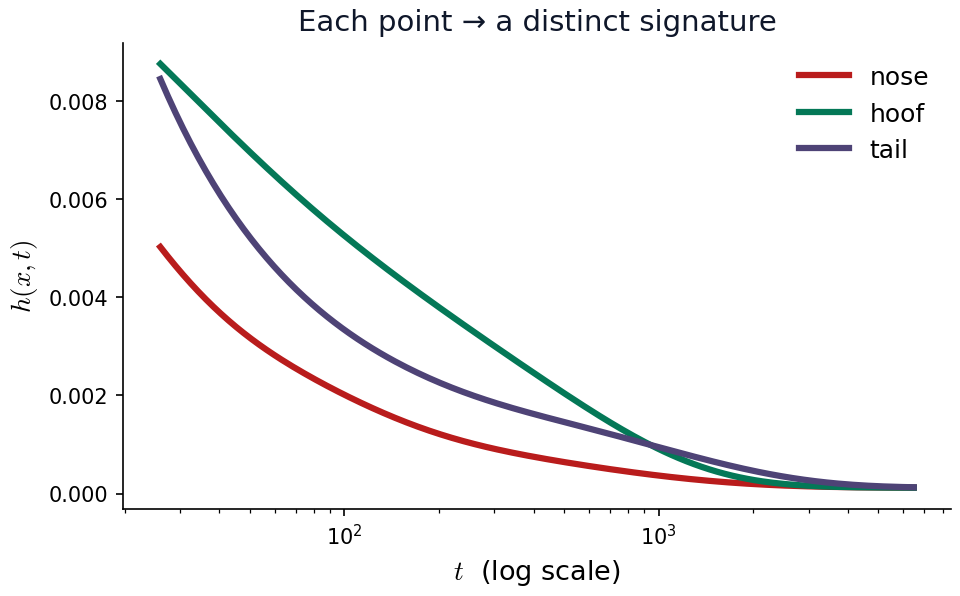
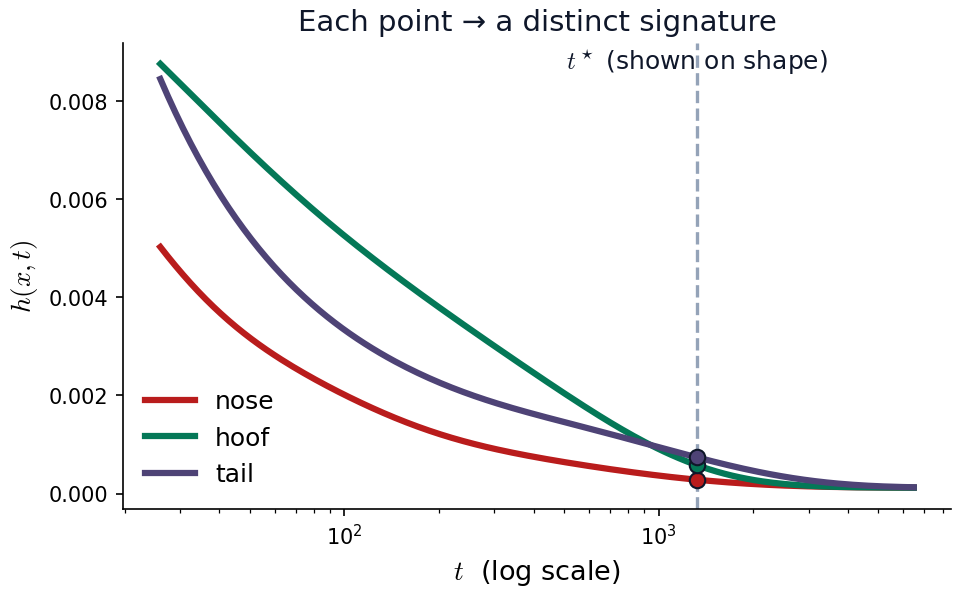
Slide 15: mark the field scale t* on the signature graph
Add a dashed vertical line at t* (the single scale painted on the shape) with
dots where each curve crosses it, and name t* in the caption — clarifies the
horse field is one slice of the descriptor, not the full signature.

diff --git a/gen/gen_24_shape_descriptors.py b/gen/gen_24_shape_descriptors.py
@@ -167,9 +167,21 @@ def build():
                  str(OUT_DIR / "desc_points.png"), pts=pts, pcols=pcols)
     print("[ok] desc_points.png")
 
+    # the scale at which the shape is painted (slide 15 field)
+    tmid = ts[len(ts) // 2]
+
     fig, ax = plt.subplots(figsize=(6.6, 4.2))
     for i, c, lbl in zip(pts, pcols, ["nose", "hoof", "tail"]):
         ax.plot(tfine, hfine[:, i], color=c, lw=3, label=lbl)
+    # vertical line marking the single scale shown on the shape, with the
+    # value each curve takes there (= the colour painted on that point)
+    ax.axvline(tmid, color=GRAY, ls="--", lw=1.6, zorder=1)
+    for i, c in zip(pts, pcols):
+        yv = float(np.exp(-tmid * lam) @ (Phi[i] ** 2))
+        ax.scatter([tmid], [yv], color=c, edgecolor=FG, zorder=6, s=55)
+    ax.annotate(r"$t^\star$ (shown on shape)", xy=(tmid, ax.get_ylim()[1]),
+                xytext=(0, -2), textcoords="offset points",
+                ha="center", va="top", fontsize=12, color=FG)
     ax.set_xscale("log")
     ax.set_xlabel("$t$  (log scale)", fontsize=13)
     ax.set_ylabel("$h(x,t)$", fontsize=13)
@@ -182,8 +194,7 @@ def build():
     plt.close()
     print("[ok] desc_curves3.png")
 
-    # field at a mid scale over every vertex
-    tmid = ts[len(ts) // 2]
+    # field at the same mid scale over every vertex
     field = np.exp(-tmid * lam) @ (Phi ** 2).T
     clim = (float(np.percentile(field, 2)), float(np.percentile(field, 98)))
     render_field(V, F, field, FIELD, clim, str(OUT_DIR / "desc_field.png"))

diff --git a/slides.md b/slides.md
@@ -761,7 +761,7 @@ From a <span class="grad">few points</span> to <span class="grad">every point</s
 
 <div class="text-center mt-1" :style="{ opacity: $clicks >= 2 ? 1 : 0, fontSize: '18px', color: 'var(--c-fg-muted)' }">
 
-…evaluate $h(x,t)$ at <em>every</em> vertex → a dense descriptor field.
+…evaluate $h(x,t^\star)$ at <em>every</em> vertex (one scale $t^\star$) → a dense descriptor field.
 
 </div>
 
